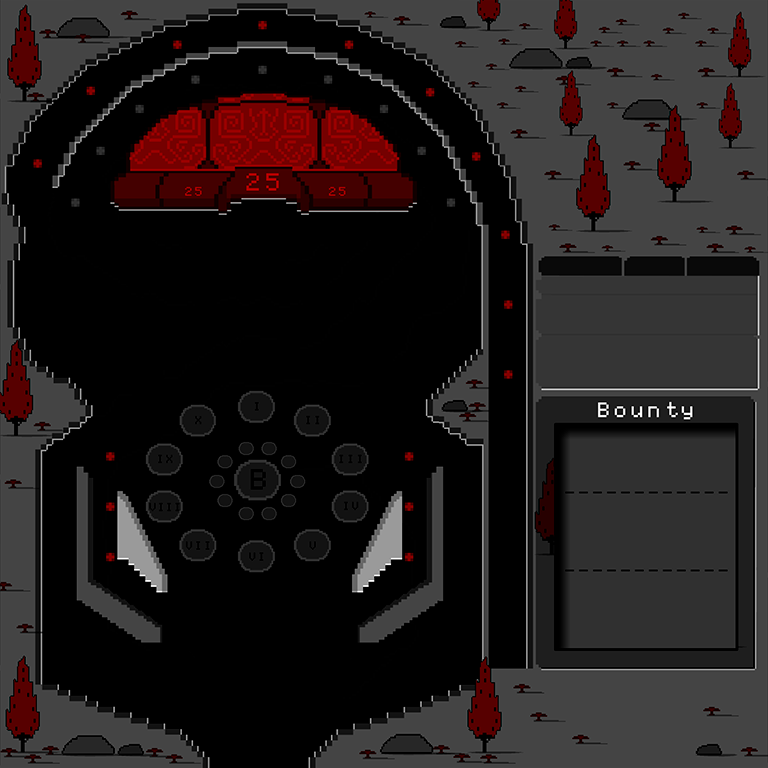
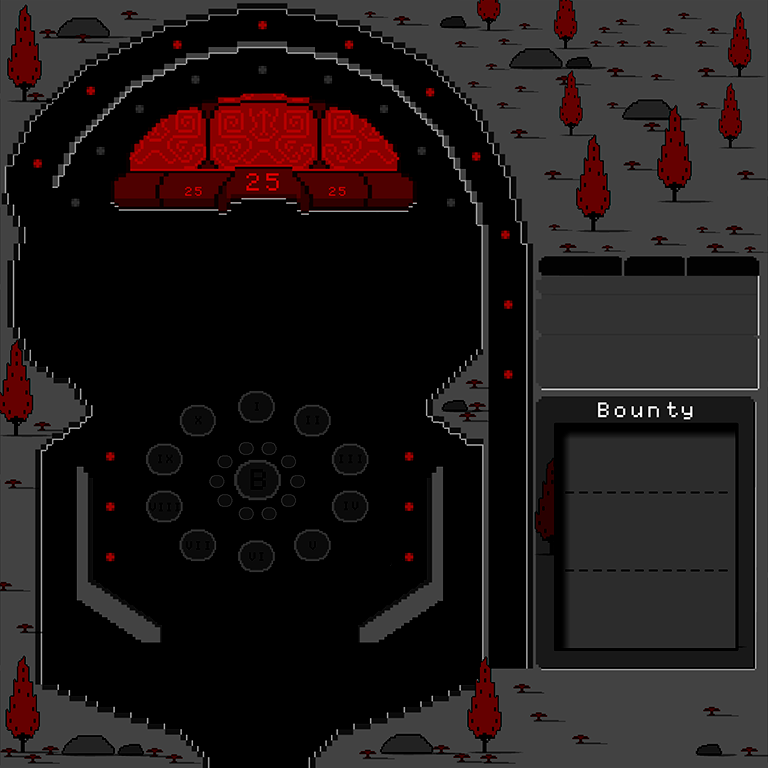
Added bumpers Animation

Changed region(s): [[0.1562, 0.125, 0.5312, 0.25], [0.4375, 0.625, 0.5312, 0.7812], [0.125, 0.625, 0.2188, 0.7812]]

diff --git a/The Pinball Adventure/ModuleSceneIntro.cpp b/The Pinball Adventure/ModuleSceneIntro.cpp
@@ -34,6 +34,8 @@ bool ModuleSceneIntro::Start()
 	right_flipper = App->textures->Load("pinball/rigth_flipper.png");
 	frog = App->textures->Load("pinball/froganim.png");
 	red_sensor = App->textures->Load("pinball/red_sensor.png");
+	left_bumper = App->textures->Load("pinball/left_bumper.png");
+	right_bumper = App->textures->Load("pinball/right_bumper.png");
 
 	bonus_fx = App->audio->LoadFx("pinball/bonus.wav");
 	flipper_fx = App->audio->LoadFx("pinball/flipper.wav");
@@ -241,9 +243,22 @@ bool ModuleSceneIntro::Start()
 
 	animations.add(froganim);
 
-	Animations* bumperanim = new Animations;
-	//TODO add the 2 frames of the bumper here
+	Animations* leftbumperanim = new Animations;
+	leftbumperanim->AddFrame(1, { 0,0,51,118 }, { 0,0 });
+	leftbumperanim->AddFrame(60, { 52,0,51,118 }, { 0,0 });
+	leftbumperanim->animationname = "left_bumper";
+	leftbumperanim->animationfinished = false;
+	leftbumperanim->animationloop = 0;
 
+	animations.add(leftbumperanim);
+	Animations* rightbumperanim = new Animations;
+	rightbumperanim->AddFrame(1, { 0,0,51,118 }, { 0,0 });
+	rightbumperanim->AddFrame(60, { 52,0,51,118 }, { 0,0 });
+	rightbumperanim->animationname = "right_bumper";
+	rightbumperanim->animationfinished = false;
+	rightbumperanim->animationloop = 0;
+
+	animations.add(rightbumperanim);
 	return ret;
 }
 
@@ -551,6 +566,35 @@ update_status ModuleSceneIntro::Update()
 		App->renderer->Blit(red_sensor, x, y, NULL, 1.0f, c->data->GetRotation());
 		c = c->next;
 	}
+
+
+	//Bumper animations---------------------------
+	//left
+	FrameInfo* frame1anim = animations.getFirst()->next->data->currentanimframe->data;
+	if (isleftbumping == true)
+	{
+		frame1anim = animations.getFirst()->next->data->StepAnimation();
+		if (animations.getFirst()->next->data->GetAnimationFinish())
+		{
+			isleftbumping = false;
+			animations.getFirst()->next->data->ResetAnimation();
+		}
+	}
+	App->renderer->Blit(left_bumper, 117, 475, &frame1anim->animationRect);
+
+	//right
+	FrameInfo* frame2anim = animations.getFirst()->next->next->data->currentanimframe->data;
+	if (isrightbumping == true)
+	{
+		frame2anim = animations.getFirst()->next->next->data->StepAnimation();
+		if (animations.getFirst()->next->next->data->GetAnimationFinish())
+		{
+			isrightbumping = false;
+			animations.getFirst()->next->next->data->ResetAnimation();
+		}
+	}
+	App->renderer->Blit(right_bumper, 352, 475, &frame2anim->animationRect);
+
 
 	// ray -----------------
 	if (ray_on == true)

diff --git a/The Pinball Adventure/ModulePhysics.cpp b/The Pinball Adventure/ModulePhysics.cpp
@@ -508,6 +508,11 @@ void ModulePhysics::BeginContact(b2Contact* contact)
 
 	if (physB && physB->listener != NULL && (App->scene_intro->leftbumper == physA || App->scene_intro->rightbumper == physA))
 	{
+		if (App->scene_intro->leftbumper == physA)
+			App->scene_intro->isleftbumping = true;
+		if (App->scene_intro->rightbumper == physA)
+			App->scene_intro->isrightbumping = true;
+
 		App->audio->PlayFx(4, 0);
 		physB->listener->OnCollision(physB, physA);
 	}

diff --git a/The Pinball Adventure/ModuleSceneIntro.h b/The Pinball Adventure/ModuleSceneIntro.h
@@ -47,6 +47,8 @@ public:
 	SDL_Texture* map;
 	SDL_Texture* left_flipper;
 	SDL_Texture* right_flipper;
+	SDL_Texture* right_bumper;
+	SDL_Texture* left_bumper;
 	SDL_Texture* kicker;
 	SDL_Texture* frog;
 	SDL_Texture* red_sensor;
@@ -60,6 +62,8 @@ public:
 	bool ray_on;
 	bool alreadycreated = false;
 	bool alreadyfinished = false;
+	bool isleftbumping = false;
+	bool isrightbumping = false;
 	int lives = 3;
 	int score = 0;
 	int highscore = 0;
